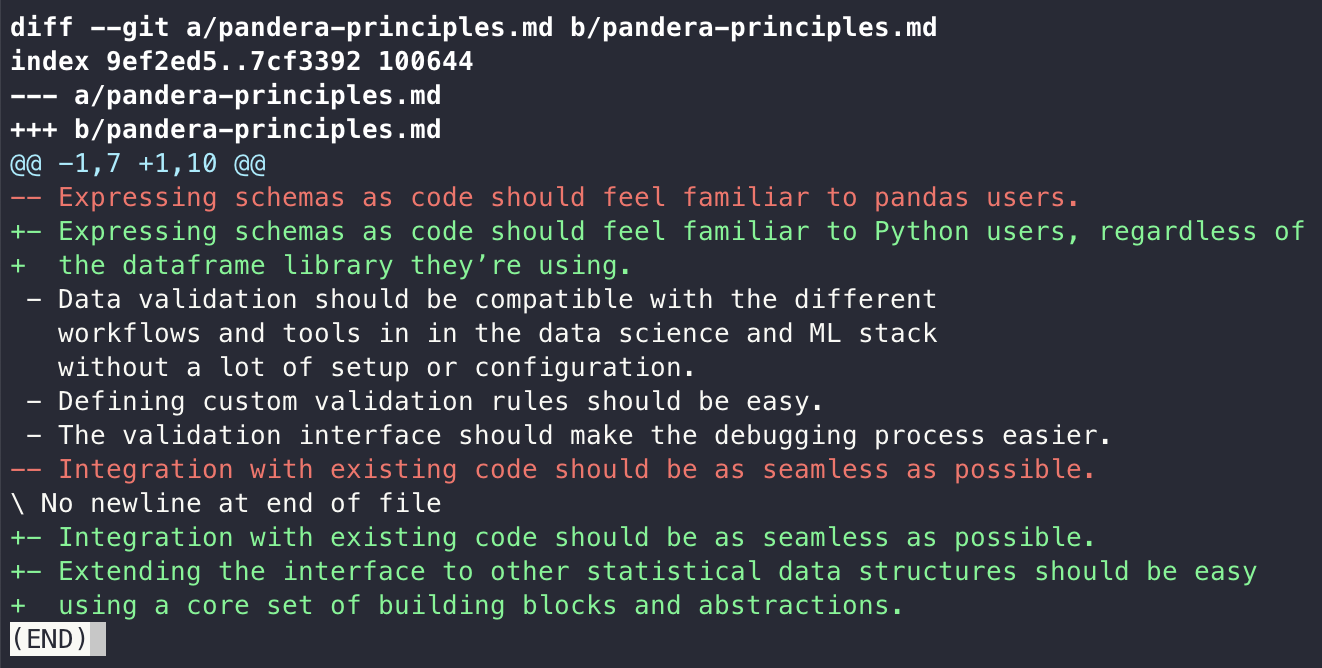
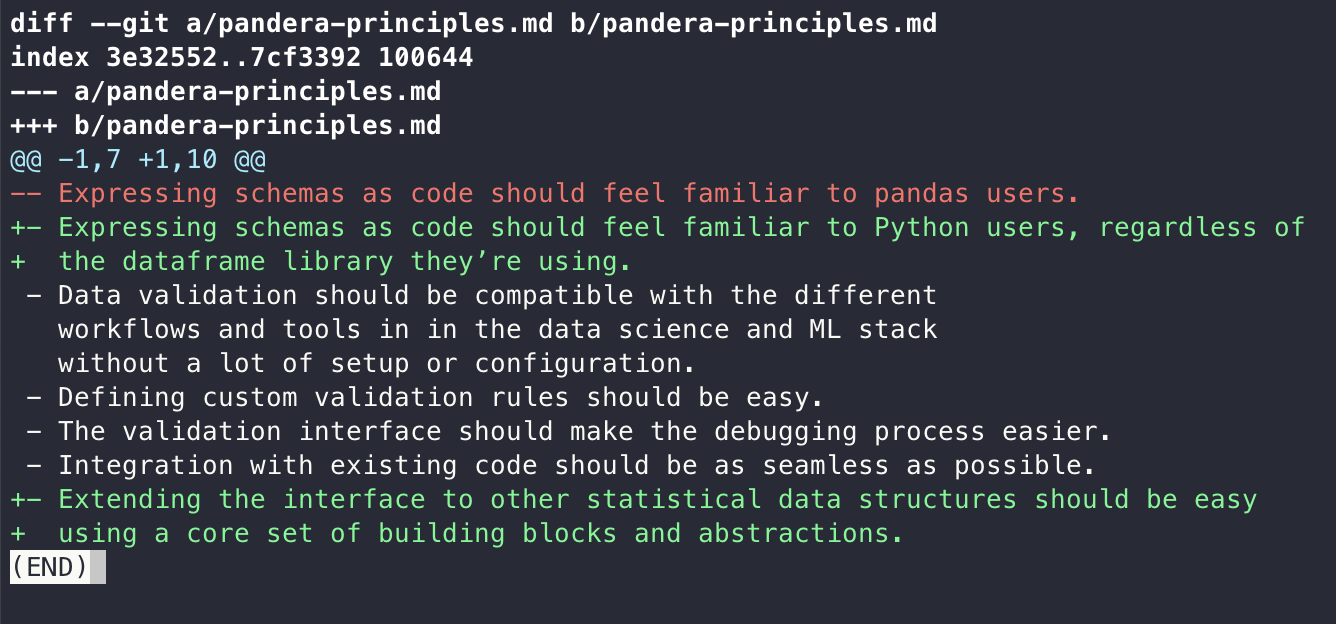
updates

Changed region(s): [[0.0, 0.0, 0.9924, 1.0]]

diff --git a/slides/20230712_scipy_beyond_pandas.slides.html b/slides/20230712_scipy_beyond_pandas.slides.html
@@ -16300,35 +16300,37 @@ easily add new built-in checks.</li>
 </div>
 <div class="jp-InputArea jp-Cell-inputArea"><div class="jp-InputPrompt jp-InputArea-prompt">
 </div><div class="jp-RenderedHTMLCommon jp-RenderedMarkdown jp-MarkdownOutput " data-mime-type="text/markdown">
-<h2 id="Retrospective">Retrospective<a class="anchor-link" href="#Retrospective">&#182;</a></h2><p>Things in place that reduced the risk of regressions</p>
-<ul>
+<h2 id="Retrospective">Retrospective<a class="anchor-link" href="#Retrospective">&#182;</a></h2><blockquote>
+<h4 id="Things-in-place-that-reduced-the-risk-of-regressions">Things in place that reduced the risk of regressions<a class="anchor-link" href="#Things-in-place-that-reduced-the-risk-of-regressions">&#182;</a></h4><ul>
 <li>Unit tests.</li>
 <li>Localized pandas coupling.</li>
 <li>Lessons learned from pandas-compliant integrations.</li>
 </ul>
+</blockquote>
 
 </div>
 </div>
 </div>
-</div></section></section><section ><section >
+</div><div class="fragment" >
 <div id="cell-id=7a94246a" class="jp-Cell jp-MarkdownCell jp-Notebook-cell">
 <div class="jp-Cell-inputWrapper">
 <div class="jp-Collapser jp-InputCollapser jp-Cell-inputCollapser">
 </div>
 <div class="jp-InputArea jp-Cell-inputArea"><div class="jp-InputPrompt jp-InputArea-prompt">
 </div><div class="jp-RenderedHTMLCommon jp-RenderedMarkdown jp-MarkdownOutput " data-mime-type="text/markdown">
-<h2 id="Retrospective">Retrospective<a class="anchor-link" href="#Retrospective">&#182;</a></h2><p>Additional approaches to put into practice in the future:</p>
-<ul>
+<blockquote>
+<h4 id="Additional-approaches-to-put-into-practice-in-the-future:">Additional approaches to put into practice in the future:<a class="anchor-link" href="#Additional-approaches-to-put-into-practice-in-the-future:">&#182;</a></h4><ul>
 <li>Thoughtful design work.</li>
 <li>Library-independent error reporting.</li>
 <li>Decoupling metadata from data.</li>
 <li>Investing in governance and community.</li>
 </ul>
+</blockquote>
 
 </div>
 </div>
 </div>
-</div></section></section><section ><section >
+</div></div></section></section><section ><section >
 <div id="cell-id=e5e08908" class="jp-Cell jp-MarkdownCell jp-Notebook-cell">
 <div class="jp-Cell-inputWrapper">
 <div class="jp-Collapser jp-InputCollapser jp-Cell-inputCollapser">
@@ -16348,7 +16350,101 @@ easily add new built-in checks.</li>
 </div>
 <div class="jp-InputArea jp-Cell-inputArea"><div class="jp-InputPrompt jp-InputArea-prompt">
 </div><div class="jp-RenderedHTMLCommon jp-RenderedMarkdown jp-MarkdownOutput " data-mime-type="text/markdown">
-<h2 id="Roadmap">Roadmap<a class="anchor-link" href="#Roadmap">&#182;</a></h2>
+<h2 id="Announcement">Announcement<a class="anchor-link" href="#Announcement">&#182;</a></h2><h3 id="%F0%9F%8E%89-Pandera-has-joined-Union.ai-%F0%9F%8E%89">&#127881; Pandera has joined Union.ai &#127881;<a class="anchor-link" href="#%F0%9F%8E%89-Pandera-has-joined-Union.ai-%F0%9F%8E%89">&#182;</a></h3>
+</div>
+</div>
+</div>
+</div><div class="fragment" >
+<div id="cell-id=cbc363ba" class="jp-Cell jp-MarkdownCell jp-Notebook-cell">
+<div class="jp-Cell-inputWrapper">
+<div class="jp-Collapser jp-InputCollapser jp-Cell-inputCollapser">
+</div>
+<div class="jp-InputArea jp-Cell-inputArea"><div class="jp-InputPrompt jp-InputArea-prompt">
+</div><div class="jp-RenderedHTMLCommon jp-RenderedMarkdown jp-MarkdownOutput " data-mime-type="text/markdown">
+<p>What does this mean?</p>
+<ul>
+<li>It will continue to be open source.</li>
+<li>It will have more resources to maintain and govern it.</li>
+<li>We can learn from enterprise users.</li>
+</ul>
+
+</div>
+</div>
+</div>
+</div></div></section></section><section ><section >
+<div id="cell-id=f88bc9e2" class="jp-Cell jp-MarkdownCell jp-Notebook-cell">
+<div class="jp-Cell-inputWrapper">
+<div class="jp-Collapser jp-InputCollapser jp-Cell-inputCollapser">
+</div>
+<div class="jp-InputArea jp-Cell-inputArea"><div class="jp-InputPrompt jp-InputArea-prompt">
+</div><div class="jp-RenderedHTMLCommon jp-RenderedMarkdown jp-MarkdownOutput " data-mime-type="text/markdown">
+<h2 id="%F0%9F%9B%A3%EF%B8%8F-Roadmap">&#128739;&#65039; Roadmap<a class="anchor-link" href="#%F0%9F%9B%A3%EF%B8%8F-Roadmap">&#182;</a></h2><ul>
+<li>🤝 <strong>Integrations</strong>: support more data manipulation libraries:<ul>
+<li>Polars support: <a href="https://github.com/unionai-oss/pandera/issues/1064">https://github.com/unionai-oss/pandera/issues/1064</a></li>
+<li>Ibis support: <a href="https://github.com/unionai-oss/pandera/issues/1105">https://github.com/unionai-oss/pandera/issues/1105</a></li>
+<li>Open an issue! <a href="https://github.com/unionai-oss/pandera/issues">https://github.com/unionai-oss/pandera/issues</a></li>
+</ul>
+</li>
+<li>💻 <strong>User Experience:</strong> polish the API:<ul>
+<li>better error-reporting</li>
+<li>more built-in checks</li>
+<li>conditional validation</li>
+</ul>
+</li>
+<li>🤝 <strong>Interoperability:</strong> tighter integrations with the python ecosystem:<ul>
+<li><code>pydantic v2</code></li>
+<li><code>pytest</code>: collect data coverage statistics</li>
+<li><code>hypothesis</code>: faster data synthesis</li>
+</ul>
+</li>
+<li>🏆 <strong>Innovations:</strong> new capabilities:<ul>
+<li>stateful data validation</li>
+<li>model-based types</li>
+</ul>
+</li>
+</ul>
+
+</div>
+</div>
+</div>
+</div></section></section><section ><section >
+<div id="cell-id=99531f44" class="jp-Cell jp-MarkdownCell jp-Notebook-cell">
+<div class="jp-Cell-inputWrapper">
+<div class="jp-Collapser jp-InputCollapser jp-Cell-inputCollapser">
+</div>
+<div class="jp-InputArea jp-Cell-inputArea"><div class="jp-InputPrompt jp-InputArea-prompt">
+</div><div class="jp-RenderedHTMLCommon jp-RenderedMarkdown jp-MarkdownOutput " data-mime-type="text/markdown">
+<h1 id="Join-the-Community!">Join the Community!<a class="anchor-link" href="#Join-the-Community!">&#182;</a></h1><p><img src="https://img.shields.io/github/stars/pandera-dev/pandera?style=social" alt="badge" />
+<a href="https://pypi.python.org/pypi/pandera/"><img src="https://img.shields.io/pypi/pyversions/pandera.svg" alt="badge" /></a>
+<a href="https://pypi.org/project/pandera/"><img src="https://img.shields.io/pypi/v/pandera.svg" alt="badge" /></a>
+<img src="https://img.shields.io/github/contributors/pandera-dev/pandera" alt="badge" />
+<a href="https://pepy.tech/project/pandera"><img src="https://pepy.tech/badge/pandera" alt="badge" /></a>
+<a href="https://pepy.tech/project/pandera"><img src="https://pepy.tech/badge/pandera/month" alt="badge" /></a>
+<a href="https://discord.gg/vyanhWuaKB"><img src="https://img.shields.io/badge/discord-chat-purple?color=%235765F2&amp;label=discord&amp;logo=discord" alt="badge" /></a></p>
+<ul>
+<li><strong>Twitter</strong>: <a href="https://twitter.com/cosmicBboy">@cosmicbboy</a></li>
+<li><strong>Discord</strong>: <a href="https://discord.gg/vyanhWuaKB">https://discord.gg/vyanhWuaKB</a></li>
+<li><strong>Email</strong>: <a href="mailto:niels@union.ai">niels@union.ai</a></li>
+<li><strong>Repo</strong>: <a href="https://github.com/unionai-oss/pandera">https://github.com/unionai-oss/pandera</a></li>
+<li><strong>Docs</strong>: <a href="https://pandera.readthedocs.io">https://pandera.readthedocs.io</a></li>
+<li><strong>Contributing Guide</strong>: <a href="https://pandera.readthedocs.io/en/stable/CONTRIBUTING.html">https://pandera.readthedocs.io/en/stable/CONTRIBUTING.html</a></li>
+<li><strong>Become a Sponsor</strong>: <a href="https://github.com/sponsors/cosmicBboy">https://github.com/sponsors/cosmicBboy</a></li>
+</ul>
+
+</div>
+</div>
+</div>
+</div></section></section><section ><section >
+<div id="cell-id=856d735e" class="jp-Cell jp-MarkdownCell jp-Notebook-cell">
+<div class="jp-Cell-inputWrapper">
+<div class="jp-Collapser jp-InputCollapser jp-Cell-inputCollapser">
+</div>
+<div class="jp-InputArea jp-Cell-inputArea"><div class="jp-InputPrompt jp-InputArea-prompt">
+</div><div class="jp-RenderedHTMLCommon jp-RenderedMarkdown jp-MarkdownOutput " data-mime-type="text/markdown">
+<h1 id="Join-me-at-the-sprints!">Join me at the sprints!<a class="anchor-link" href="#Join-me-at-the-sprints!">&#182;</a></h1><p>Contribute to the <code>Flyte</code> project: <a href="https://www.flyte.org">https://www.flyte.org</a></p>
+<image src="../static/flyte_sprint.png" width="600px">
+
+
 </div>
 </div>
 </div>
@@ -18897,7 +18993,7 @@ via <code>@pandera.extensions.register_check_method</code>.</p>
 </div>
 </div>
 </div></section></section><section ><section >
-<div id="cell-id=99531f44" class="jp-Cell jp-MarkdownCell jp-Notebook-cell">
+<div id="cell-id=92574062" class="jp-Cell jp-MarkdownCell jp-Notebook-cell">
 <div class="jp-Cell-inputWrapper">
 <div class="jp-Collapser jp-InputCollapser jp-Cell-inputCollapser">
 </div>

diff --git a/slides/custom.css b/slides/custom.css
@@ -98,7 +98,7 @@ div.output_html th {
 .reveal p, .reveal li {
     margin: 10px 0;
     line-height: 1.3;
-    font-size: 1em;
+    font-size: 0.85em;
 }
 
 div.output_html iframe {

diff --git a/notebooks/20230712_scipy_beyond_pandas.py b/notebooks/20230712_scipy_beyond_pandas.py
@@ -366,21 +366,19 @@ def process_data(df: DataFrame[RawData]) -> DataFrame[ProcessedData]:
 # %% [markdown] slideshow={"slide_type": "slide"}
 # ## Retrospective
 #
-# Things in place that reduced the risk of regressions
-#
-# - Unit tests.
-# - Localized pandas coupling.
-# - Lessons learned from pandas-compliant integrations.
+# > #### Things in place that reduced the risk of regressions
+# > 
+# > - Unit tests.
+# > - Localized pandas coupling.
+# > - Lessons learned from pandas-compliant integrations.
 
-# %% [markdown] slideshow={"slide_type": "slide"}
-# ## Retrospective
-#
-# Additional approaches to put into practice in the future:
-#
-# - Thoughtful design work.
-# - Library-independent error reporting.
-# - Decoupling metadata from data.
-# - Investing in governance and community.
+# %% [markdown] slideshow={"slide_type": "fragment"}
+# > #### Additional approaches to put into practice in the future:
+# > 
+# > - Thoughtful design work.
+# > - Library-independent error reporting.
+# > - Decoupling metadata from data.
+# > - Investing in governance and community.
 
 # %% [markdown] slideshow={"slide_type": "slide"}
 # ## Updated Principles
@@ -388,8 +386,63 @@ def process_data(df: DataFrame[RawData]) -> DataFrame[ProcessedData]:
 # <image src="../static/pandera_updated_principles.png" width="600px">
 
 # %% [markdown] slideshow={"slide_type": "slide"}
-# ## Roadmap
+# ## Announcement
+#
+# ### 🎉 Pandera has joined Union.ai 🎉
 
+# %% [markdown] slideshow={"slide_type": "fragment"}
+#
+# What does this mean?
+#
+# - It will continue to be open source.
+# - It will have more resources to maintain and govern it.
+# - We can learn from enterprise users.
+
+# %% [markdown] slideshow={"slide_type": "slide"}
+# ## 🛣 Roadmap
+#
+# - 🤝 **Integrations**: support more data manipulation libraries:
+#   - Polars support: https://github.com/unionai-oss/pandera/issues/1064
+#   - Ibis support: https://github.com/unionai-oss/pandera/issues/1105
+#   - Open an issue! https://github.com/unionai-oss/pandera/issues
+# - 💻 **User Experience:** polish the API:
+#   - better error-reporting
+#   - more built-in checks
+#   - conditional validation
+# - 🤝 **Interoperability:** tighter integrations with the python ecosystem:
+#   - `pydantic v2`
+#   - `pytest`: collect data coverage statistics
+#   - `hypothesis`: faster data synthesis
+# - 🏆 **Innovations:** new capabilities:
+#   - stateful data validation
+#   - model-based types
+
+# %% [markdown] slideshow={"slide_type": "slide"}
+# # Join the Community!
+#
+# ![badge](https://img.shields.io/github/stars/pandera-dev/pandera?style=social)
+# [![badge](https://img.shields.io/pypi/pyversions/pandera.svg)](https://pypi.python.org/pypi/pandera/)
+# [![badge](https://img.shields.io/pypi/v/pandera.svg)](https://pypi.org/project/pandera/)
+# ![badge](https://img.shields.io/github/contributors/pandera-dev/pandera)
+# [![badge](https://pepy.tech/badge/pandera)](https://pepy.tech/project/pandera)
+# [![badge](https://pepy.tech/badge/pandera/month)](https://pepy.tech/project/pandera)
+# [![badge](https://img.shields.io/badge/discord-chat-purple?color=%235765F2&label=discord&logo=discord)](https://discord.gg/vyanhWuaKB)
+#
+#
+# - **Twitter**: [@cosmicbboy](https://twitter.com/cosmicBboy)
+# - **Discord**: https://discord.gg/vyanhWuaKB
+# - **Email**: [niels@union.ai](mailto:niels@union.ai)
+# - **Repo**: https://github.com/unionai-oss/pandera
+# - **Docs**: https://pandera.readthedocs.io
+# - **Contributing Guide**: https://pandera.readthedocs.io/en/stable/CONTRIBUTING.html
+# - **Become a Sponsor**: https://github.com/sponsors/cosmicBboy
+
+# %% [markdown] slideshow={"slide_type": "slide"}
+# # Join me at the sprints!
+#
+# Contribute to the `Flyte` project: https://www.flyte.org
+#
+# <image src="../static/flyte_sprint.png" width="600px">
 
 # %% [markdown] slideshow={"slide_type": "slide"}
 # # 🤔 What's Data Testing

diff --git a/pandera-principles.md b/pandera-principles.md
@@ -1,7 +1,10 @@
-- Expressing schemas as code should feel familiar to pandas users.
+- Expressing schemas as code should feel familiar to Python users, regardless of
+  the dataframe library they’re using.
 - Data validation should be compatible with the different
   workflows and tools in in the data science and ML stack
   without a lot of setup or configuration.
 - Defining custom validation rules should be easy.
 - The validation interface should make the debugging process easier.
 - Integration with existing code should be as seamless as possible.
+- Extending the interface to other statistical data structures should be easy
+  using a core set of building blocks and abstractions.
